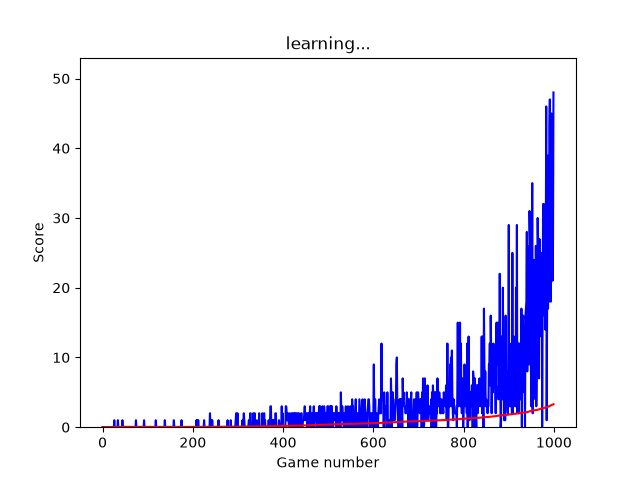
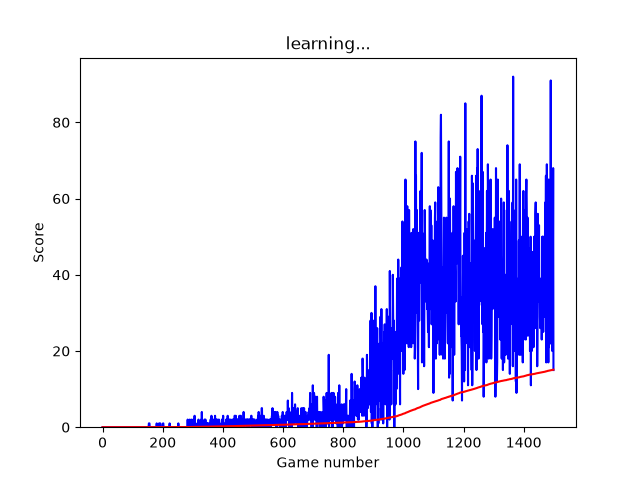
Fix plot saving

diff --git a/snake.py b/snake.py
@@ -1,6 +1,5 @@
 import os
 import random
-import sys
 
 import matplotlib.pyplot as plt
 import pygame
@@ -18,7 +17,6 @@ INNER_LAYER = 512
 TRAINER_GAMMA = 0.89
 LEARNING_RATE = 0.0025
 EXPLORATION_GAMES = 1000
-LIMIT_GAMES = 1000
 SURVIVAL_REWARD = 0
 DEATH_REWARD = -10
 EATING_REWARD = 10
@@ -269,8 +267,14 @@ class Plot:
         )
     
     def save(self):
+        self.update()
+
+        if not os.path.exists('./runs'):
+            os.makedirs('./runs')
+
         number = len(os.listdir('./runs'))
         plt.savefig(f"./runs/run{number}")
+
 
 def is_crash(x, y, snake):
     if x >= SCREEN_WIDTH or y >= SCREEN_HEIGHT or x < 0 or y < 0:
@@ -295,6 +299,7 @@ def spawn_food(snake):
 
 
 def main():
+    limit_games = int(input("Set game limitation: "))
     game = SnakeGame()
     renderer = Renderer()
     agent = Agent()
@@ -304,6 +309,7 @@ def main():
         for event in pygame.event.get():
             if event.type == pygame.QUIT:
                 pygame.quit()
+                plot.save()
                 return
 
             if event.type == pygame.KEYDOWN:
@@ -333,13 +339,13 @@ def main():
         if is_game_over:
             plot.refresh_score(game.score)
             
-            if game.count % PLOT_RATE == 0:
-                plot.update()
-            if game.count == LIMIT_GAMES:
-                plot.update()
+            if game.count >= limit_games:
                 plot.save()
                 return
 
+            if game.count % PLOT_RATE == 0:
+                plot.update()
+            
             game.reset()
 
 
